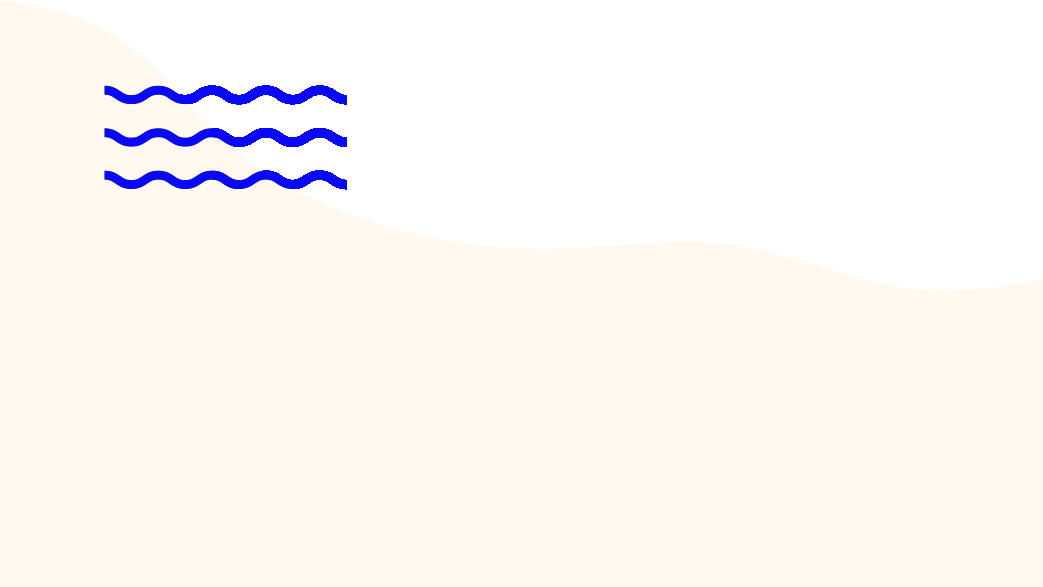
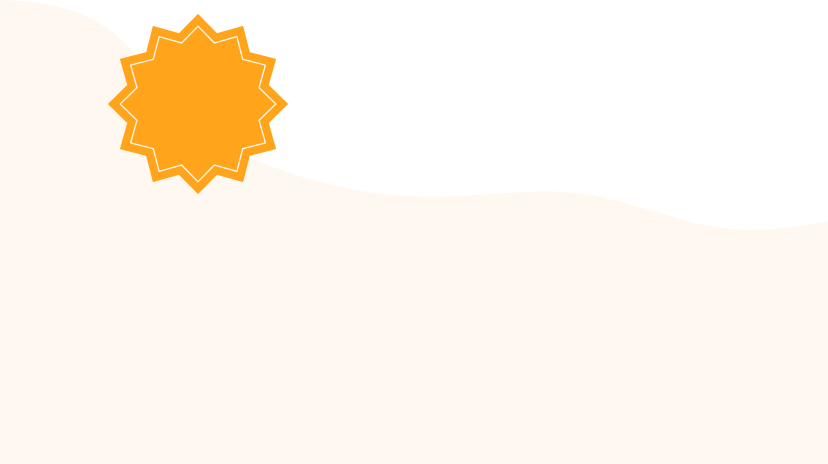
[#183] styling landing page

Changed region(s): [[0.0906, 0.0302, 0.3623, 0.4224]]

diff --git a/src/components/Icon/Icon.tsx b/src/components/Icon/Icon.tsx
@@ -41,6 +41,7 @@ import { ReactComponent as RetryIcon } from '../../assets/icons/retry.svg'
 import { ReactComponent as SendIcon } from '../../assets/icons/send.svg'
 import { ReactComponent as ShowerIcon } from '../../assets/icons/shower.svg'
 import { ReactComponent as SpinnerIcon } from '../../assets/icons/spinner.svg'
+import { ReactComponent as StarzLogoIcon } from '../../assets/icons/starz_logo.svg'
 import { ReactComponent as SwimmingManIcon } from '../../assets/icons/swimming-man.svg'
 import { ReactComponent as ThreeDotsIcon } from '../../assets/icons/three-dots.svg'
 import { ReactComponent as TicketsIcon } from '../../assets/icons/tickets.svg'
@@ -98,6 +99,7 @@ const iconMap = {
   send: SendIcon,
   shower: ShowerIcon,
   spinner: SpinnerIcon,
+  'starz-logo': StarzLogoIcon,
   'swimming-man': SwimmingManIcon,
   'three-dots': ThreeDotsIcon,
   tickets: TicketsIcon,

diff --git a/src/components/HomepageHowTo/HomepageHowTo.tsx b/src/components/HomepageHowTo/HomepageHowTo.tsx
@@ -29,10 +29,10 @@ const HomepageHowTo = () => {
     () =>
       items.map((item, index) => (
         <div
-          className="relative inline-flex flex-col gap-y-8 items-center flex-1 px-6 pt-16 pb-6 bg-sunscreen border-2 rounded-2xl border-secondary"
+          className="relative inline-flex flex-col gap-y-8 items-center flex-1 px-6 pt-16 pb-6 bg-sunscreen border-2 rounded-2xl border-orange"
           key={index}
         >
-          <div className="absolute flex flex-col items-center justify-center bg-secondary rounded-full text-2xl font-semibold text-primary w-16 h-16 -top-8">
+          <div className="absolute flex flex-col items-center justify-center bg-orange rounded-full text-2xl font-semibold text-white w-16 h-16 -top-8">
             {index + 1}
           </div>
           <div className="w-28 h-28 pl-0.5 pt-1 pb-0.5">

diff --git a/src/pages/LandingPage/LandingPage.tsx b/src/pages/LandingPage/LandingPage.tsx
@@ -67,7 +67,7 @@ const LandingPage = () => {
           />
           <iframe
             src="https://cdn-api.bratislava.sk/static-pages/sport-grounds-map/index.html?lang=sk"
-            className="w-full h-[80vh] min-h-[200px] max-h-[624px] max-w-[1110px]"
+            className="w-full h-[80vh] min-h-[200px] max-h-[628px] max-w-[1143px] border-2 rounded-2xl border-primary"
             title="Mapa kúpalísk"
             allow="geolocation; fullscreen"
           />
@@ -81,7 +81,7 @@ const LandingPage = () => {
           </div>
           <div className="hidden col-span-2 md:block">
             <img
-              src="/contact-form-image.png"
+              src="/contact-form-image.svg"
               alt="decoration for contact form"
               className="w-full lg:w-8/10 xl:w-7/10 mx-auto"
             />

diff --git a/src/components/Header/Header.tsx b/src/components/Header/Header.tsx
@@ -71,9 +71,7 @@ const Header = () => {
     <>
       <div className="bg-sunscreen shadow-xs py-3 md:py-4 sticky top-0 z-40 w-full header">
         <div className="container mx-auto text-fontBlack flex justify-between">
-          <Link className="text-primary font-bold text-xl cursor-pointer" to="/">
-            STARZ
-          </Link>
+          <Icon name="starz-logo" className="hidden xs:block no-fill pr-5" />
           <nav className="hidden md:flex flex-1 items-center justify-end">
             {menuItems.map((menuItem, index) => (
               <div key={menuItem.to} className={cx('flex', { relative: menuItem.icon })}>

diff --git a/tailwind.config.js b/tailwind.config.js
@@ -61,6 +61,7 @@ module.exports = {
         inactive: '#CCCCCC',
         divider: '#D6D6D6',
         sunscreen: '#FFF9F0',
+        orange: '#F4AA3D',
       },
       borderWidth: {
         3: '3px',
